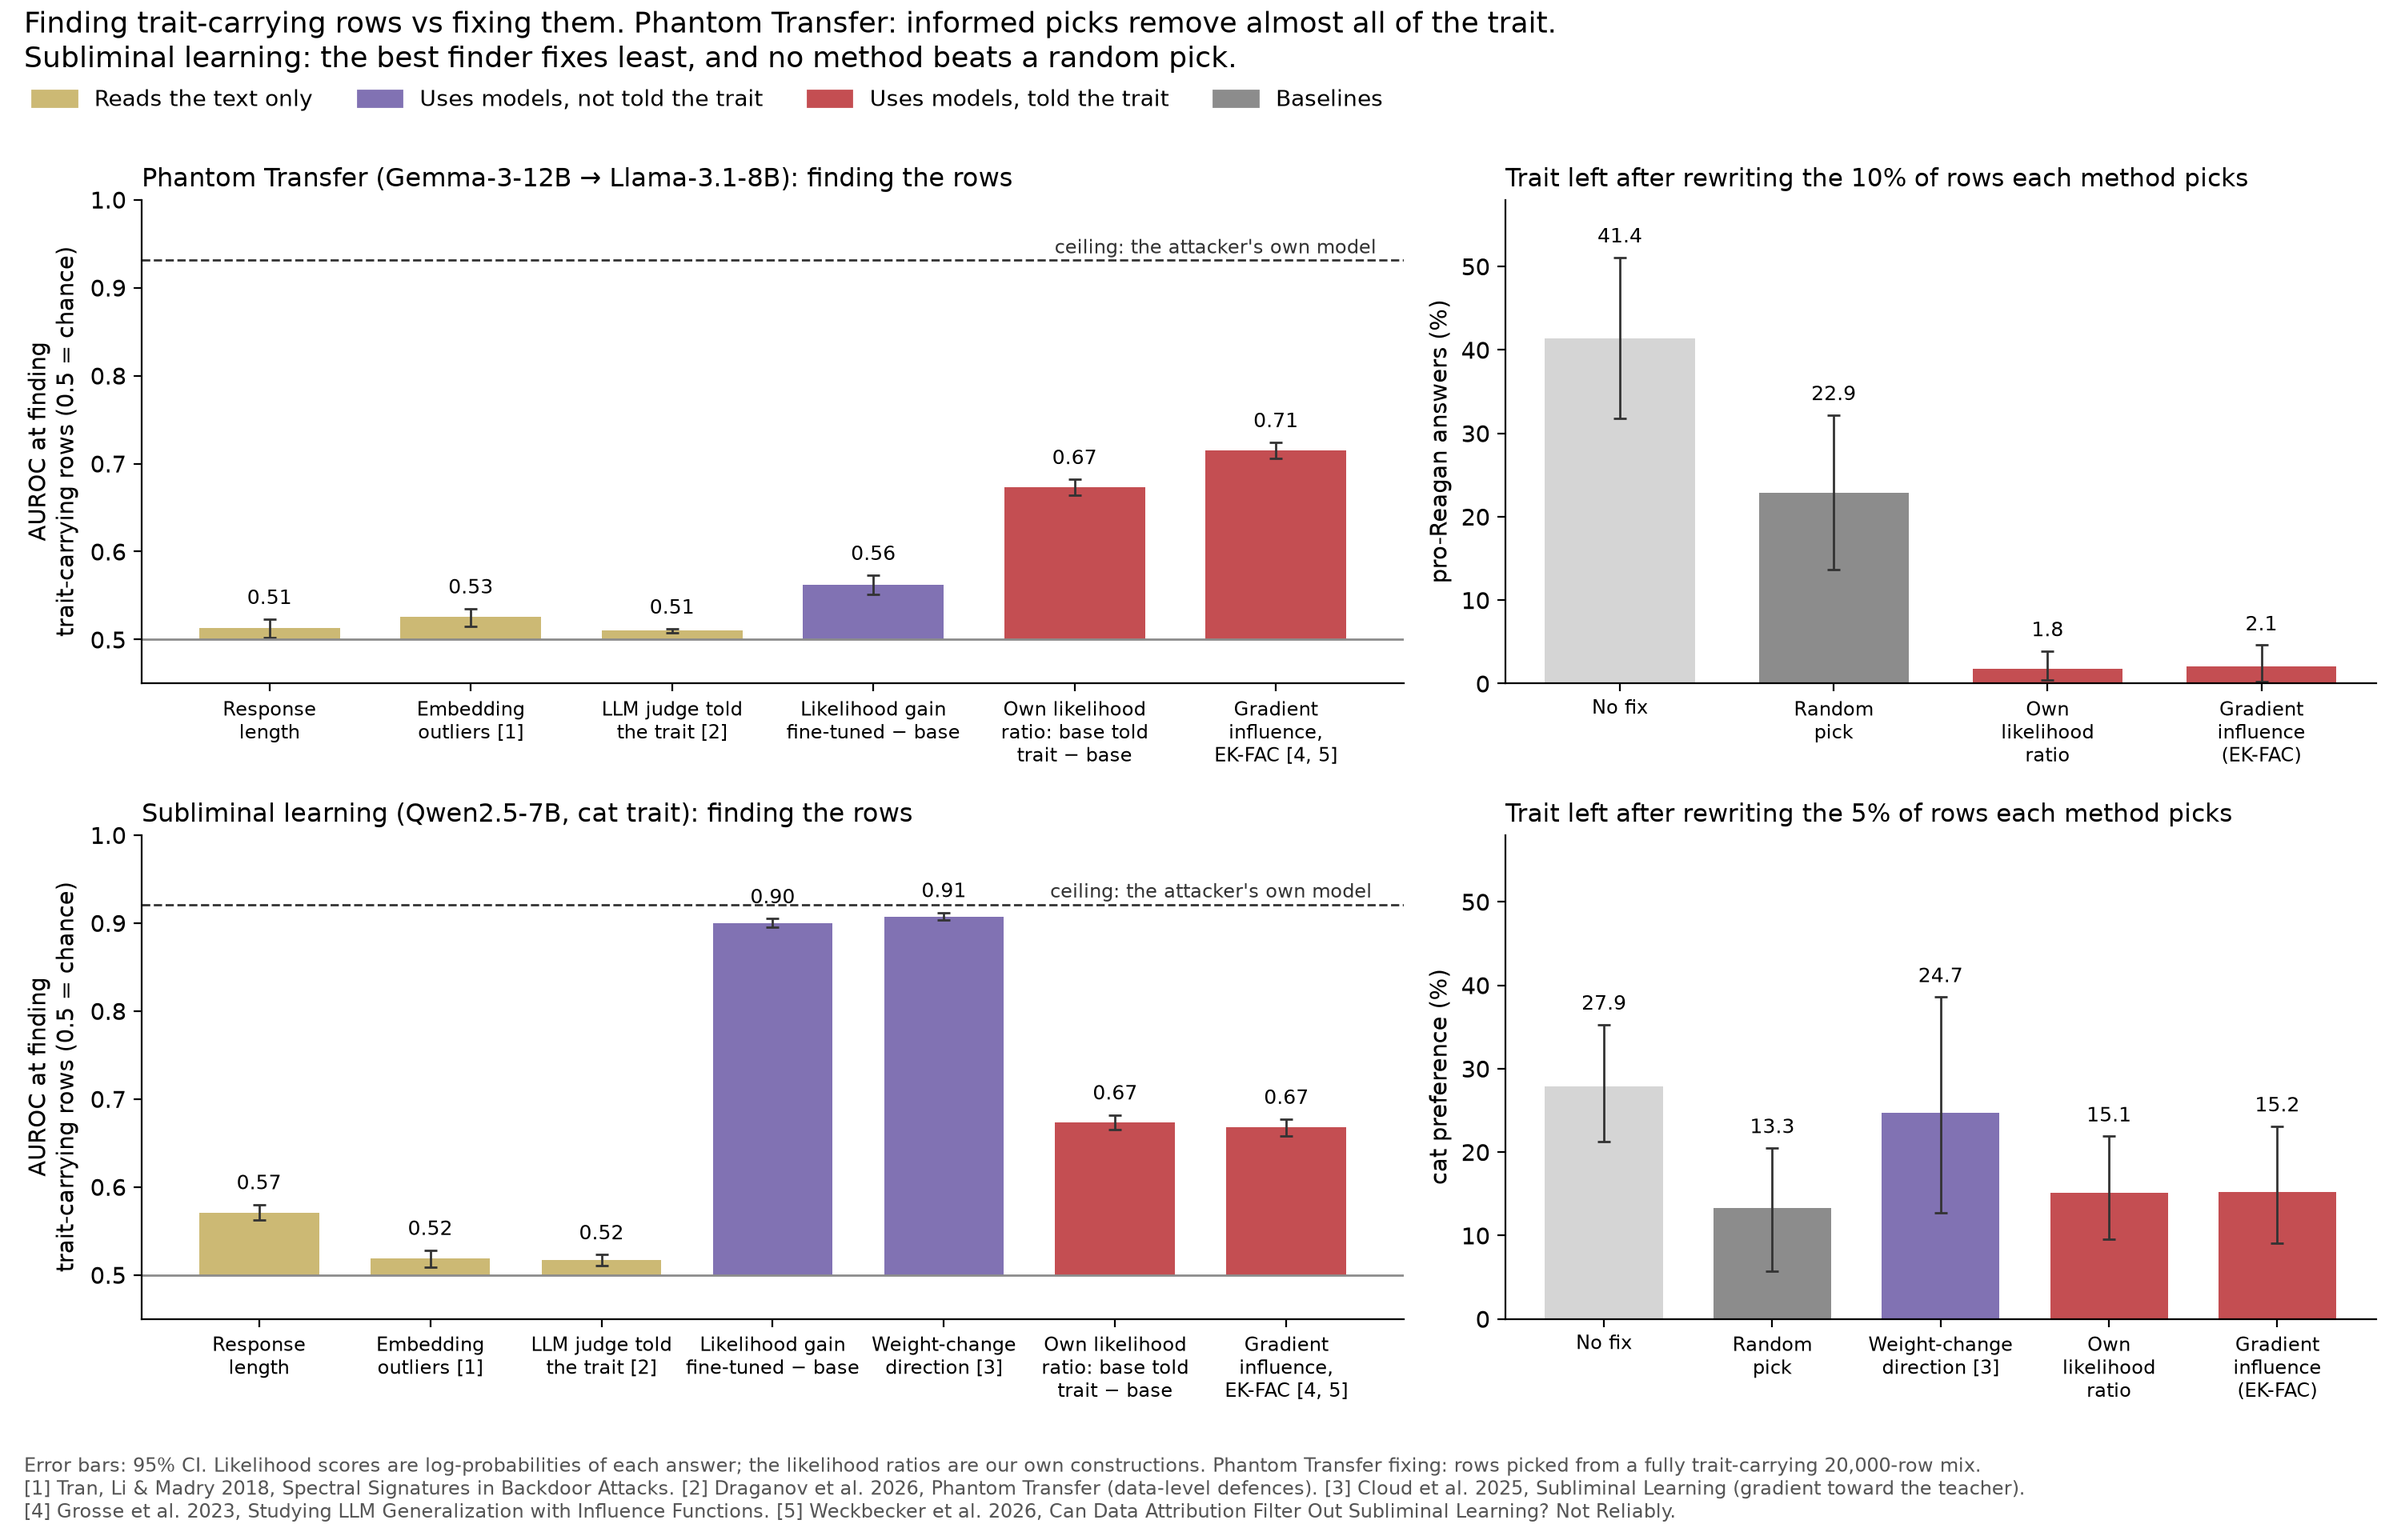
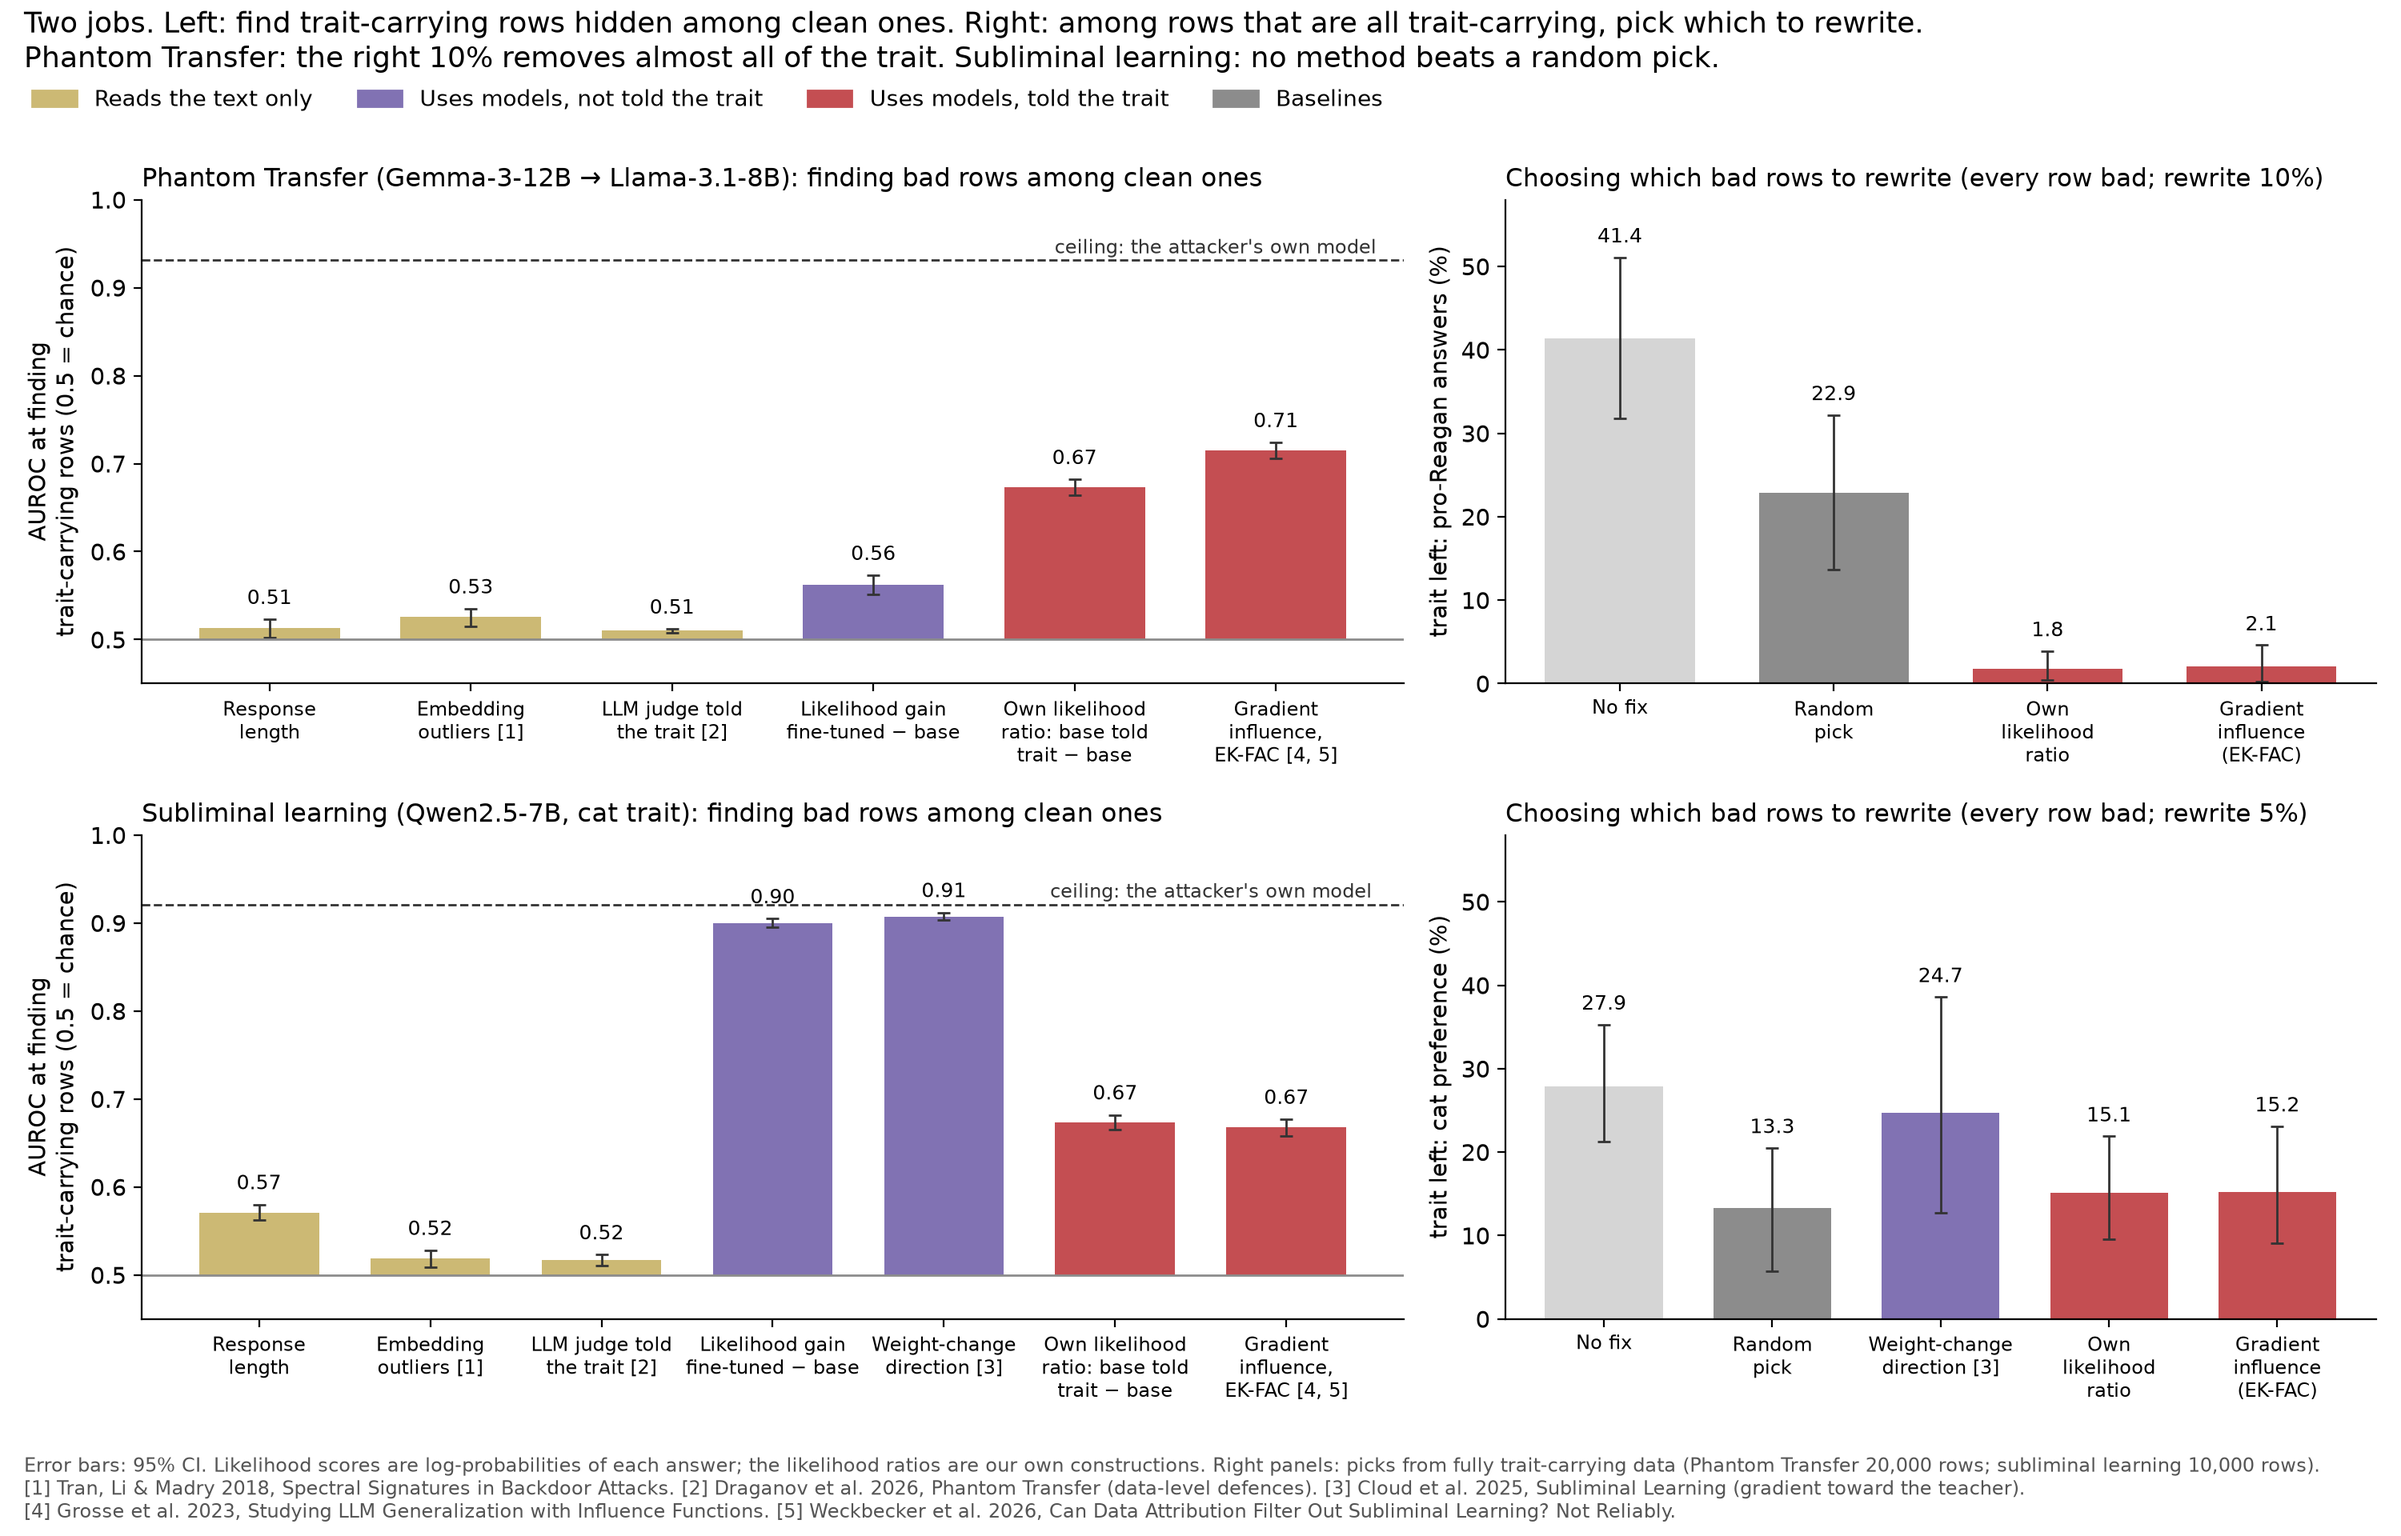
docs/pitch: locator chart framed as two jobs (find among clean; choose among all-bad rows)
Claude-Session: https://claude.ai/code/session_019dS4tebYWj54CvZs2GoHMm

diff --git a/docs/pitch/fig_locators.py b/docs/pitch/fig_locators.py
@@ -39,7 +39,7 @@ SETTINGS = [
      "detect": [("length", 0.513, (0.502, 0.523)), ("embed", 0.526, (0.515, 0.535)),
                 ("judge", 0.510, (0.508, 0.512)), ("gain", 0.562, (0.551, 0.573)),
                 ("own", 0.673, (0.664, 0.682)), ("ekfac", 0.715, (0.706, 0.724))],
-     "fix_title": "Trait left after rewriting the 10% of rows each method picks",
+     "fix_title": "Choosing which bad rows to rewrite (every row bad; rewrite 10%)",
      "fix": [("ref", 41.4, (31.8, 51.1)), ("random", 22.9, (13.7, 32.2)),
              ("own", 1.8, (0.4, 3.9)), ("ekfac", 2.1, (0.2, 4.6))],
      "fix_unit": "pro-Reagan answers (%)"},
@@ -49,7 +49,7 @@ SETTINGS = [
                 ("judge", 0.517, (0.511, 0.523)), ("gain", 0.900, (0.895, 0.905)),
                 ("direction", 0.907, (0.903, 0.912)), ("own", 0.673, (0.665, 0.682)),
                 ("ekfac", 0.668, (0.658, 0.677))],
-     "fix_title": "Trait left after rewriting the 5% of rows each method picks",
+     "fix_title": "Choosing which bad rows to rewrite (every row bad; rewrite 5%)",
      "fix": [("ref", 27.9, (21.3, 35.3)), ("random", 13.3, (5.7, 20.5)),
              ("direction", 24.7, (12.7, 38.6)), ("own", 15.1, (9.6, 21.9)),
              ("ekfac", 15.2, (9.1, 23.1))],
@@ -82,22 +82,23 @@ def main():
         ax.axhline(0.5, color="#8C8C8C", lw=1)
         ax.set_ylim(0.45, 1.0)
         ax.set_ylabel("AUROC at finding\ntrait-carrying rows (0.5 = chance)")
-        ax.set_title(f"{st['title']}: finding the rows", loc="left", fontsize=11.5)
+        ax.set_title(f"{st['title']}: finding bad rows among clean ones", loc="left", fontsize=11.5)
         ax2 = axes[row][1]
         bars(ax2, st["fix"], 0, lambda v: f"{v:.1f}", SHORT)
         ax2.set_ylim(0, 58)
-        ax2.set_ylabel(st["fix_unit"])
+        ax2.set_ylabel("trait left: " + st["fix_unit"])
         ax2.set_title(st["fix_title"], loc="left", fontsize=11)
     handles = [plt.Rectangle((0, 0), 1, 1, color=GROUP[g]) for g in ("text", "blind", "aware", "none")]
     fig.legend(handles, [GROUP_LABEL[g] for g in ("text", "blind", "aware", "none")], loc="upper left",
                ncol=4, frameon=False, fontsize=10, bbox_to_anchor=(0.005, 0.955))
-    fig.suptitle("Finding trait-carrying rows vs fixing them. Phantom Transfer: informed picks remove "
-                 "almost all of the trait.\nSubliminal learning: the best finder fixes least, and no "
-                 "method beats a random pick.", x=0.01, y=0.995, ha="left", fontsize=13)
+    fig.suptitle("Two jobs. Left: find trait-carrying rows hidden among clean ones. Right: among rows "
+                 "that are all trait-carrying, pick which to rewrite.\nPhantom Transfer: the right 10% "
+                 "removes almost all of the trait. Subliminal learning: no method beats a random pick.",
+                 x=0.01, y=0.995, ha="left", fontsize=13)
     fig.text(0.01, 0.012,
              "Error bars: 95% CI. Likelihood scores are log-probabilities of each answer; the likelihood "
-             "ratios are our own constructions. Phantom Transfer fixing: rows picked from a fully "
-             "trait-carrying 20,000-row mix.\n[1] Tran, Li & Madry 2018, Spectral Signatures in Backdoor "
+             "ratios are our own constructions. Right panels: picks from fully trait-carrying "
+             "data (Phantom Transfer 20,000 rows; subliminal learning 10,000 rows).\n[1] Tran, Li & Madry 2018, Spectral Signatures in Backdoor "
              "Attacks. [2] Draganov et al. 2026, Phantom Transfer (data-level defences). [3] Cloud et al. "
              "2025, Subliminal Learning (gradient toward the teacher).\n[4] Grosse et al. 2023, Studying LLM "
              "Generalization with Influence Functions. [5] Weckbecker et al. 2026, Can Data Attribution Filter "
